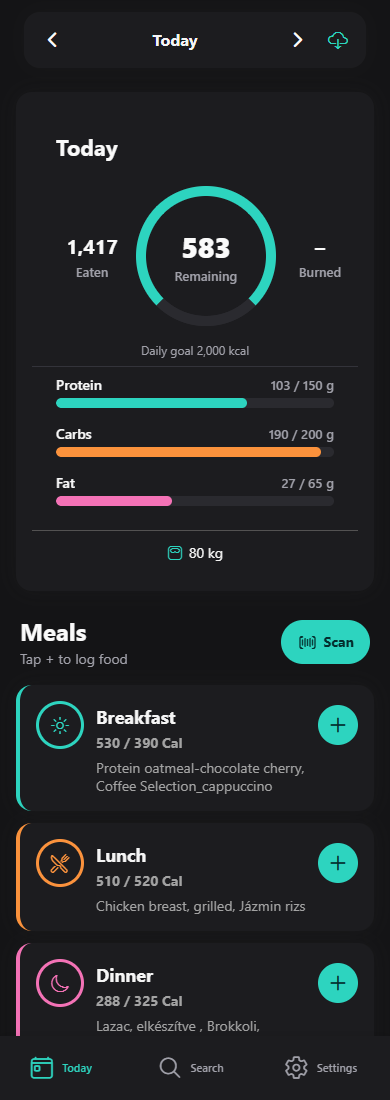
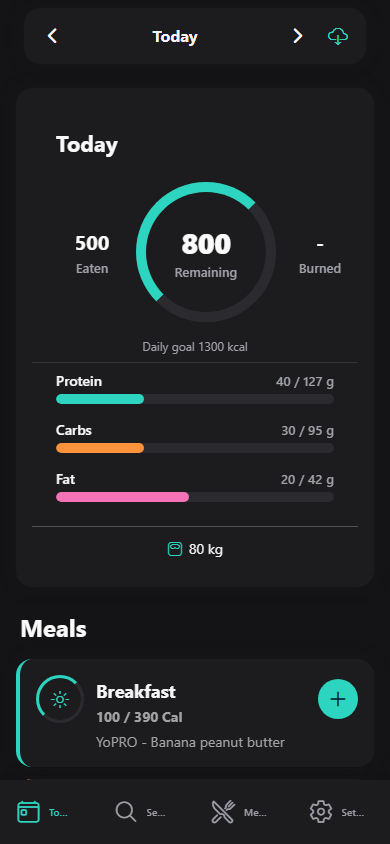
docs: feature the AI chat in README screenshots

diff --git a/README.md b/README.md
@@ -38,25 +38,30 @@ your account is optional and best-effort. No account needed to try it.
 <div align="center">
 
 <p align="center">
-<strong>Diary</strong> · <strong>Food search</strong> · <strong>Log a food</strong><br><br>
+<strong>Diary</strong> · <strong>AI assistant</strong> · <strong>Food search</strong><br><br>
 <picture>
   <source media="(prefers-color-scheme: dark)" srcset="./docs/screenshots/dashboard-dark.png">
   <img alt="Daily dashboard with calorie ring and meal sections" src="./docs/screenshots/dashboard-light.png" width="190">
 </picture>
 &nbsp;&nbsp;
 <picture>
-  <source media="(prefers-color-scheme: dark)" srcset="./docs/screenshots/search-dark.png">
-  <img alt="Live YAZIO food search results" src="./docs/screenshots/search-light.png" width="190">
+  <source media="(prefers-color-scheme: dark)" srcset="./docs/screenshots/ai-chat-dark.png">
+  <img alt="AI chat answering a dinner question from your diary" src="./docs/screenshots/ai-chat-light.png" width="190">
 </picture>
 &nbsp;&nbsp;
 <picture>
-  <source media="(prefers-color-scheme: dark)" srcset="./docs/screenshots/add-food-dark.png">
-  <img alt="Serving size and nutrition preview" src="./docs/screenshots/add-food-light.png" width="190">
+  <source media="(prefers-color-scheme: dark)" srcset="./docs/screenshots/search-dark.png">
+  <img alt="Live YAZIO food search results" src="./docs/screenshots/search-light.png" width="190">
 </picture>
 </p>
 
 <p align="center">
-<strong>Quick Add</strong> · <strong>Meal builder</strong> · <strong>Diary details</strong><br><br>
+<strong>Log a food</strong> · <strong>Quick Add</strong> · <strong>Meal builder</strong><br><br>
+<picture>
+  <source media="(prefers-color-scheme: dark)" srcset="./docs/screenshots/add-food-dark.png">
+  <img alt="Serving size and nutrition preview" src="./docs/screenshots/add-food-light.png" width="190">
+</picture>
+&nbsp;&nbsp;
 <picture>
   <source media="(prefers-color-scheme: dark)" srcset="./docs/screenshots/quick-add-dark.png">
   <img alt="Quick Add manual entry" src="./docs/screenshots/quick-add-light.png" width="190">
@@ -66,15 +71,15 @@ your account is optional and best-effort. No account needed to try it.
   <source media="(prefers-color-scheme: dark)" srcset="./docs/screenshots/meal-builder-dark.png">
   <img alt="Compose reusable meals" src="./docs/screenshots/meal-builder-light.png" width="190">
 </picture>
-&nbsp;&nbsp;
+</p>
+
+<p align="center">
+<strong>Diary details</strong> · <strong>Settings</strong> · <strong>Login</strong><br><br>
 <picture>
   <source media="(prefers-color-scheme: dark)" srcset="./docs/screenshots/log-meal-dark.png">
   <img alt="Logged entries with macros" src="./docs/screenshots/log-meal-light.png" width="190">
 </picture>
-</p>
-
-<p align="center">
-<strong>Settings</strong> · <strong>Login</strong><br><br>
+&nbsp;&nbsp;
 <picture>
   <source media="(prefers-color-scheme: dark)" srcset="./docs/screenshots/settings-dark.png">
   <img alt="Goals, units and data management" src="./docs/screenshots/settings-light.png" width="190">
